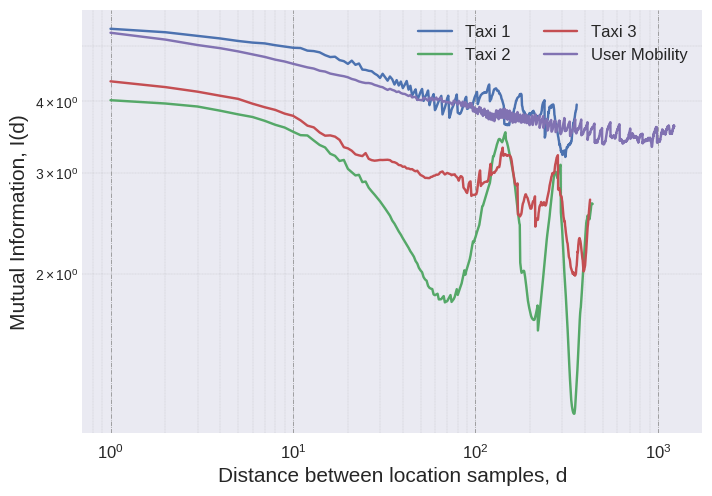
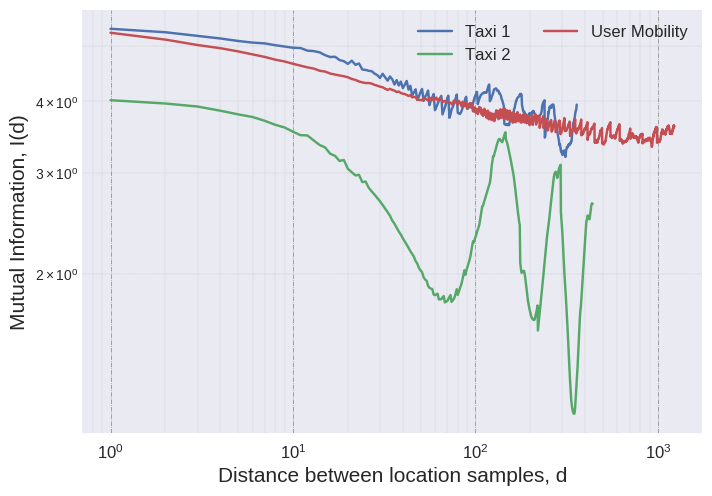
up

diff --git a/paper_related/stuff/plot_mobility.py b/paper_related/stuff/plot_mobility.py
@@ -4,7 +4,7 @@ import seaborn as sns
 import matplotlib.pyplot as plt
 import numpy as np
 
-filenames = ["taxi_1_1","taxi_2_1","taxi_3_1","user_grids"]
+filenames = ["taxi_1_1","taxi_2_1","user_grids"]
 all_mi = []
 
 for filename in filenames:
@@ -45,8 +45,7 @@ for filename in filenames:
 with plt.style.context(('seaborn')):
     plt.loglog(np.arange(1,len(all_mi[0])+1), all_mi[0], label="Taxi 1")
     plt.loglog(np.arange(1,len(all_mi[1])+1), all_mi[1], label="Taxi 2")
-    plt.loglog(np.arange(1,len(all_mi[2])+1), all_mi[2], label="Taxi 3")
-    plt.loglog(np.arange(1,len(all_mi[3])+1), all_mi[3], label="User Mobility")
+    plt.loglog(np.arange(1,len(all_mi[2])+1), all_mi[2], label="User Mobility")
 
     plt.tick_params(labelsize='large', width=5)
     plt.grid(True)
